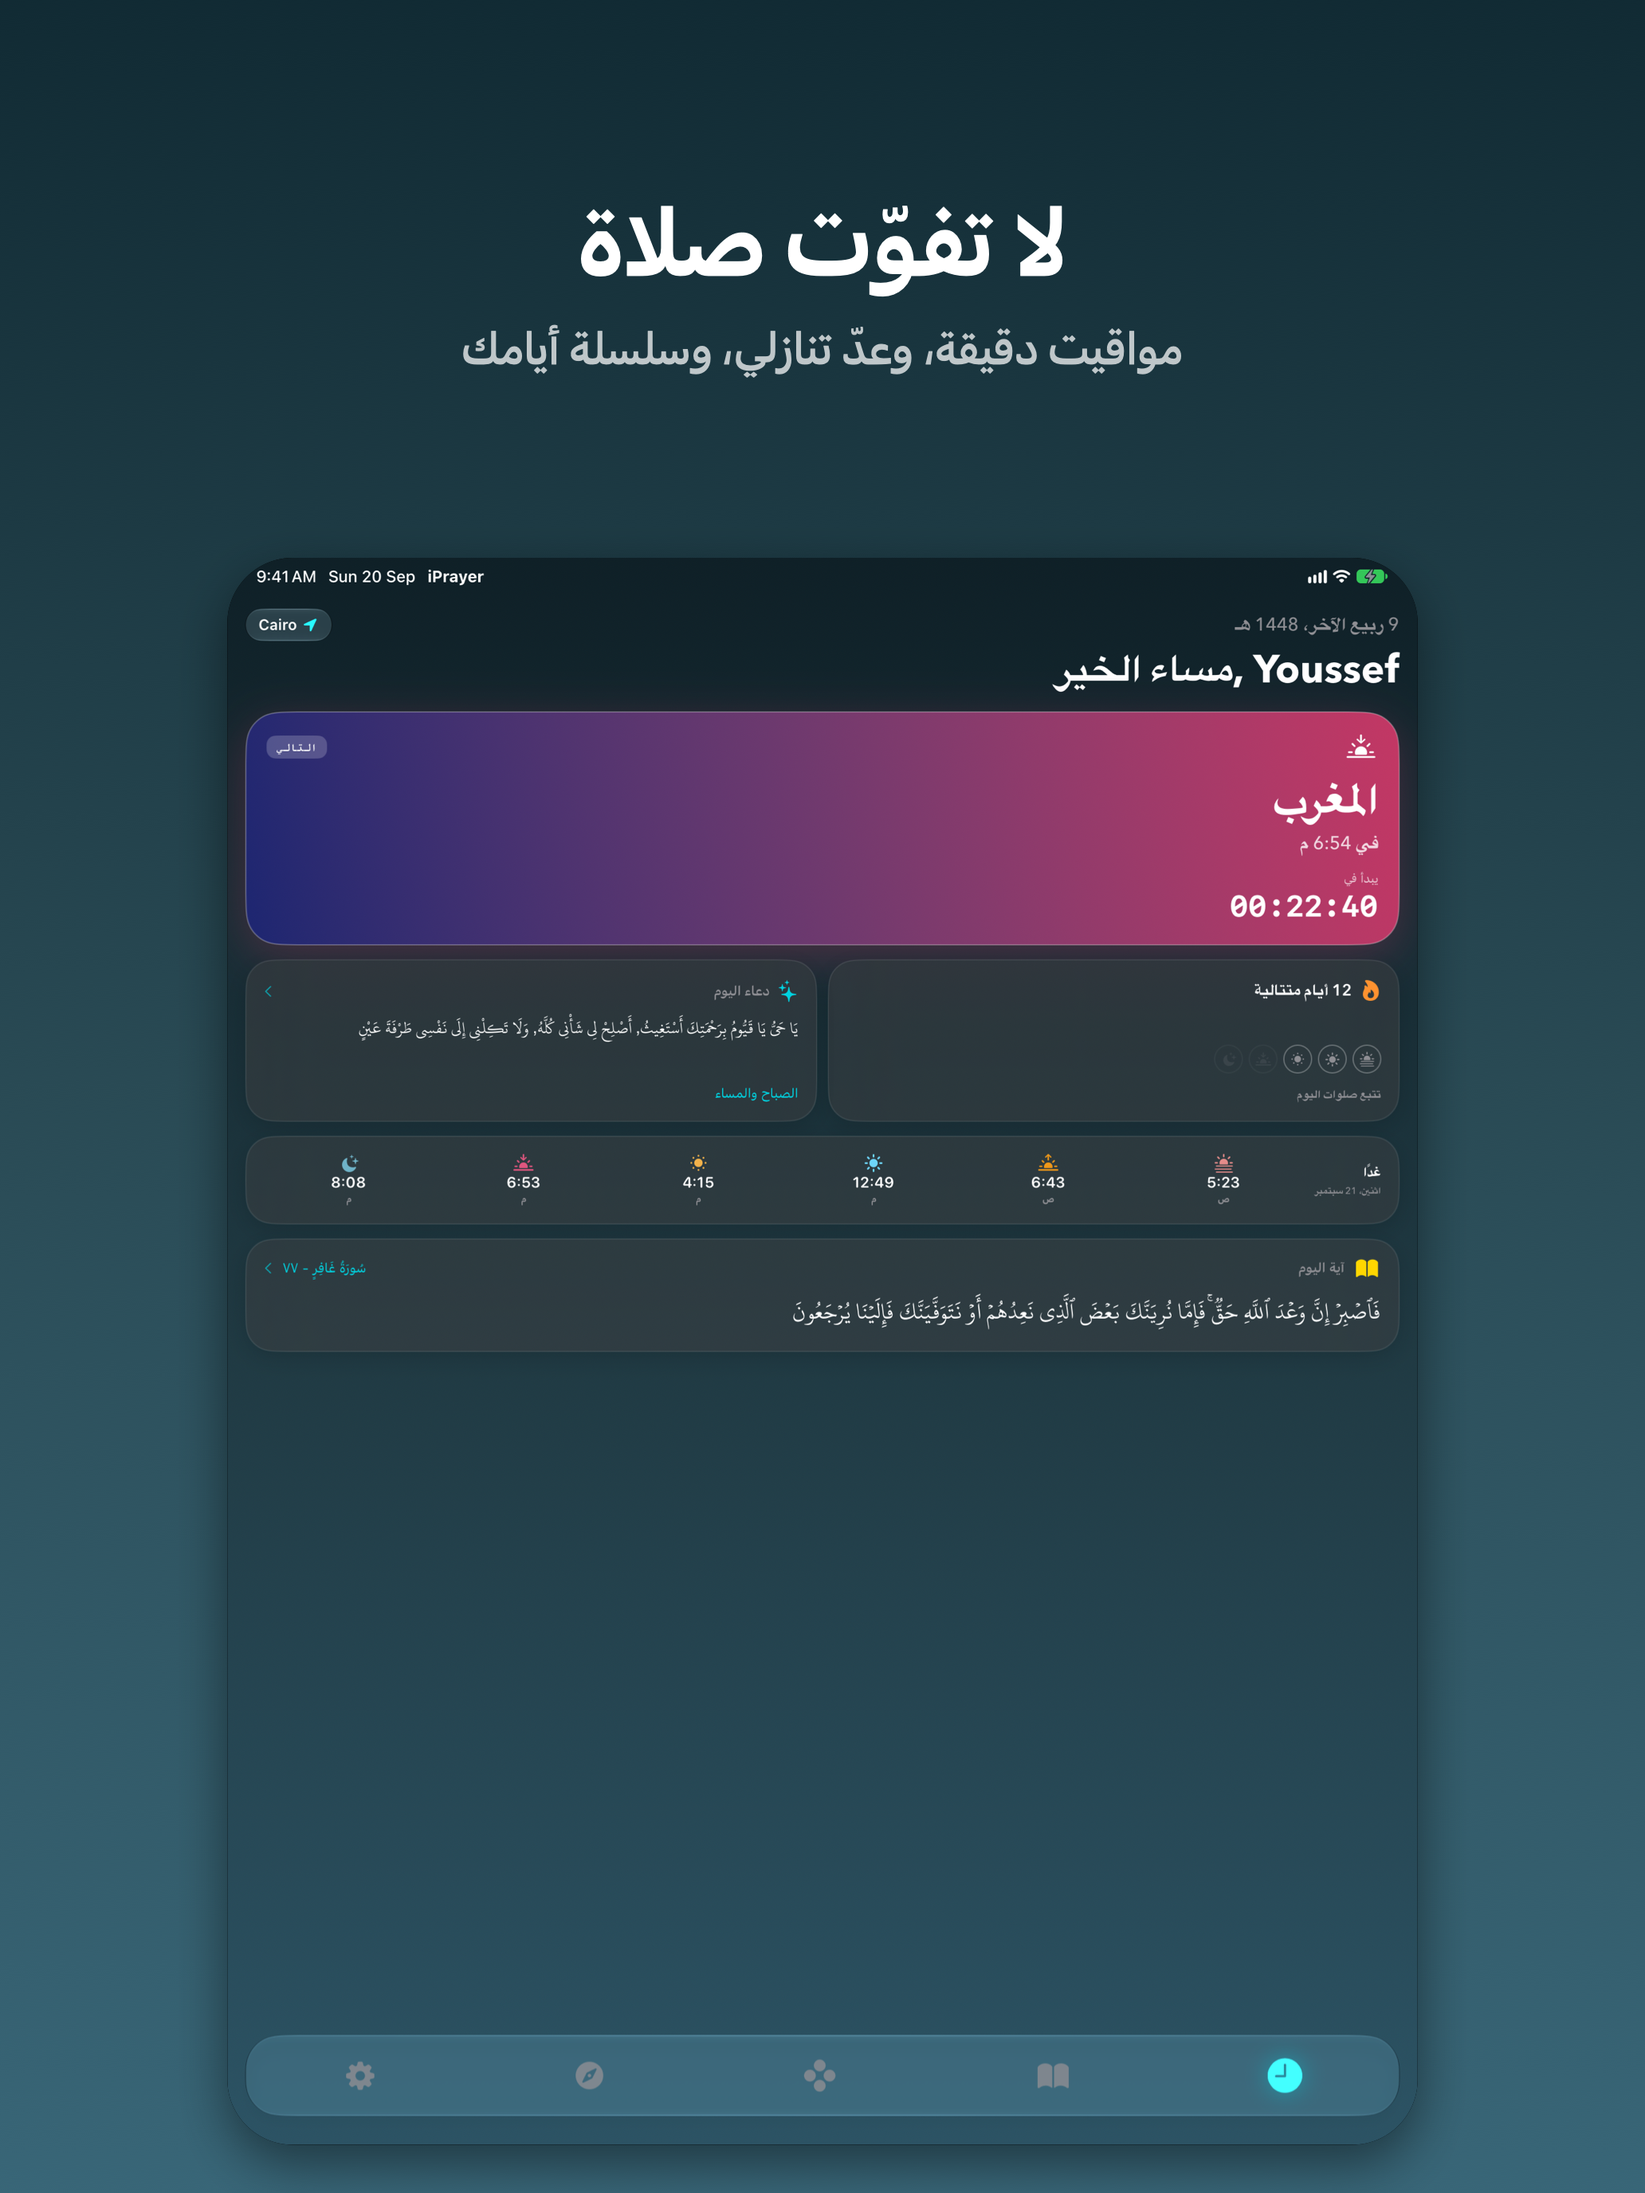
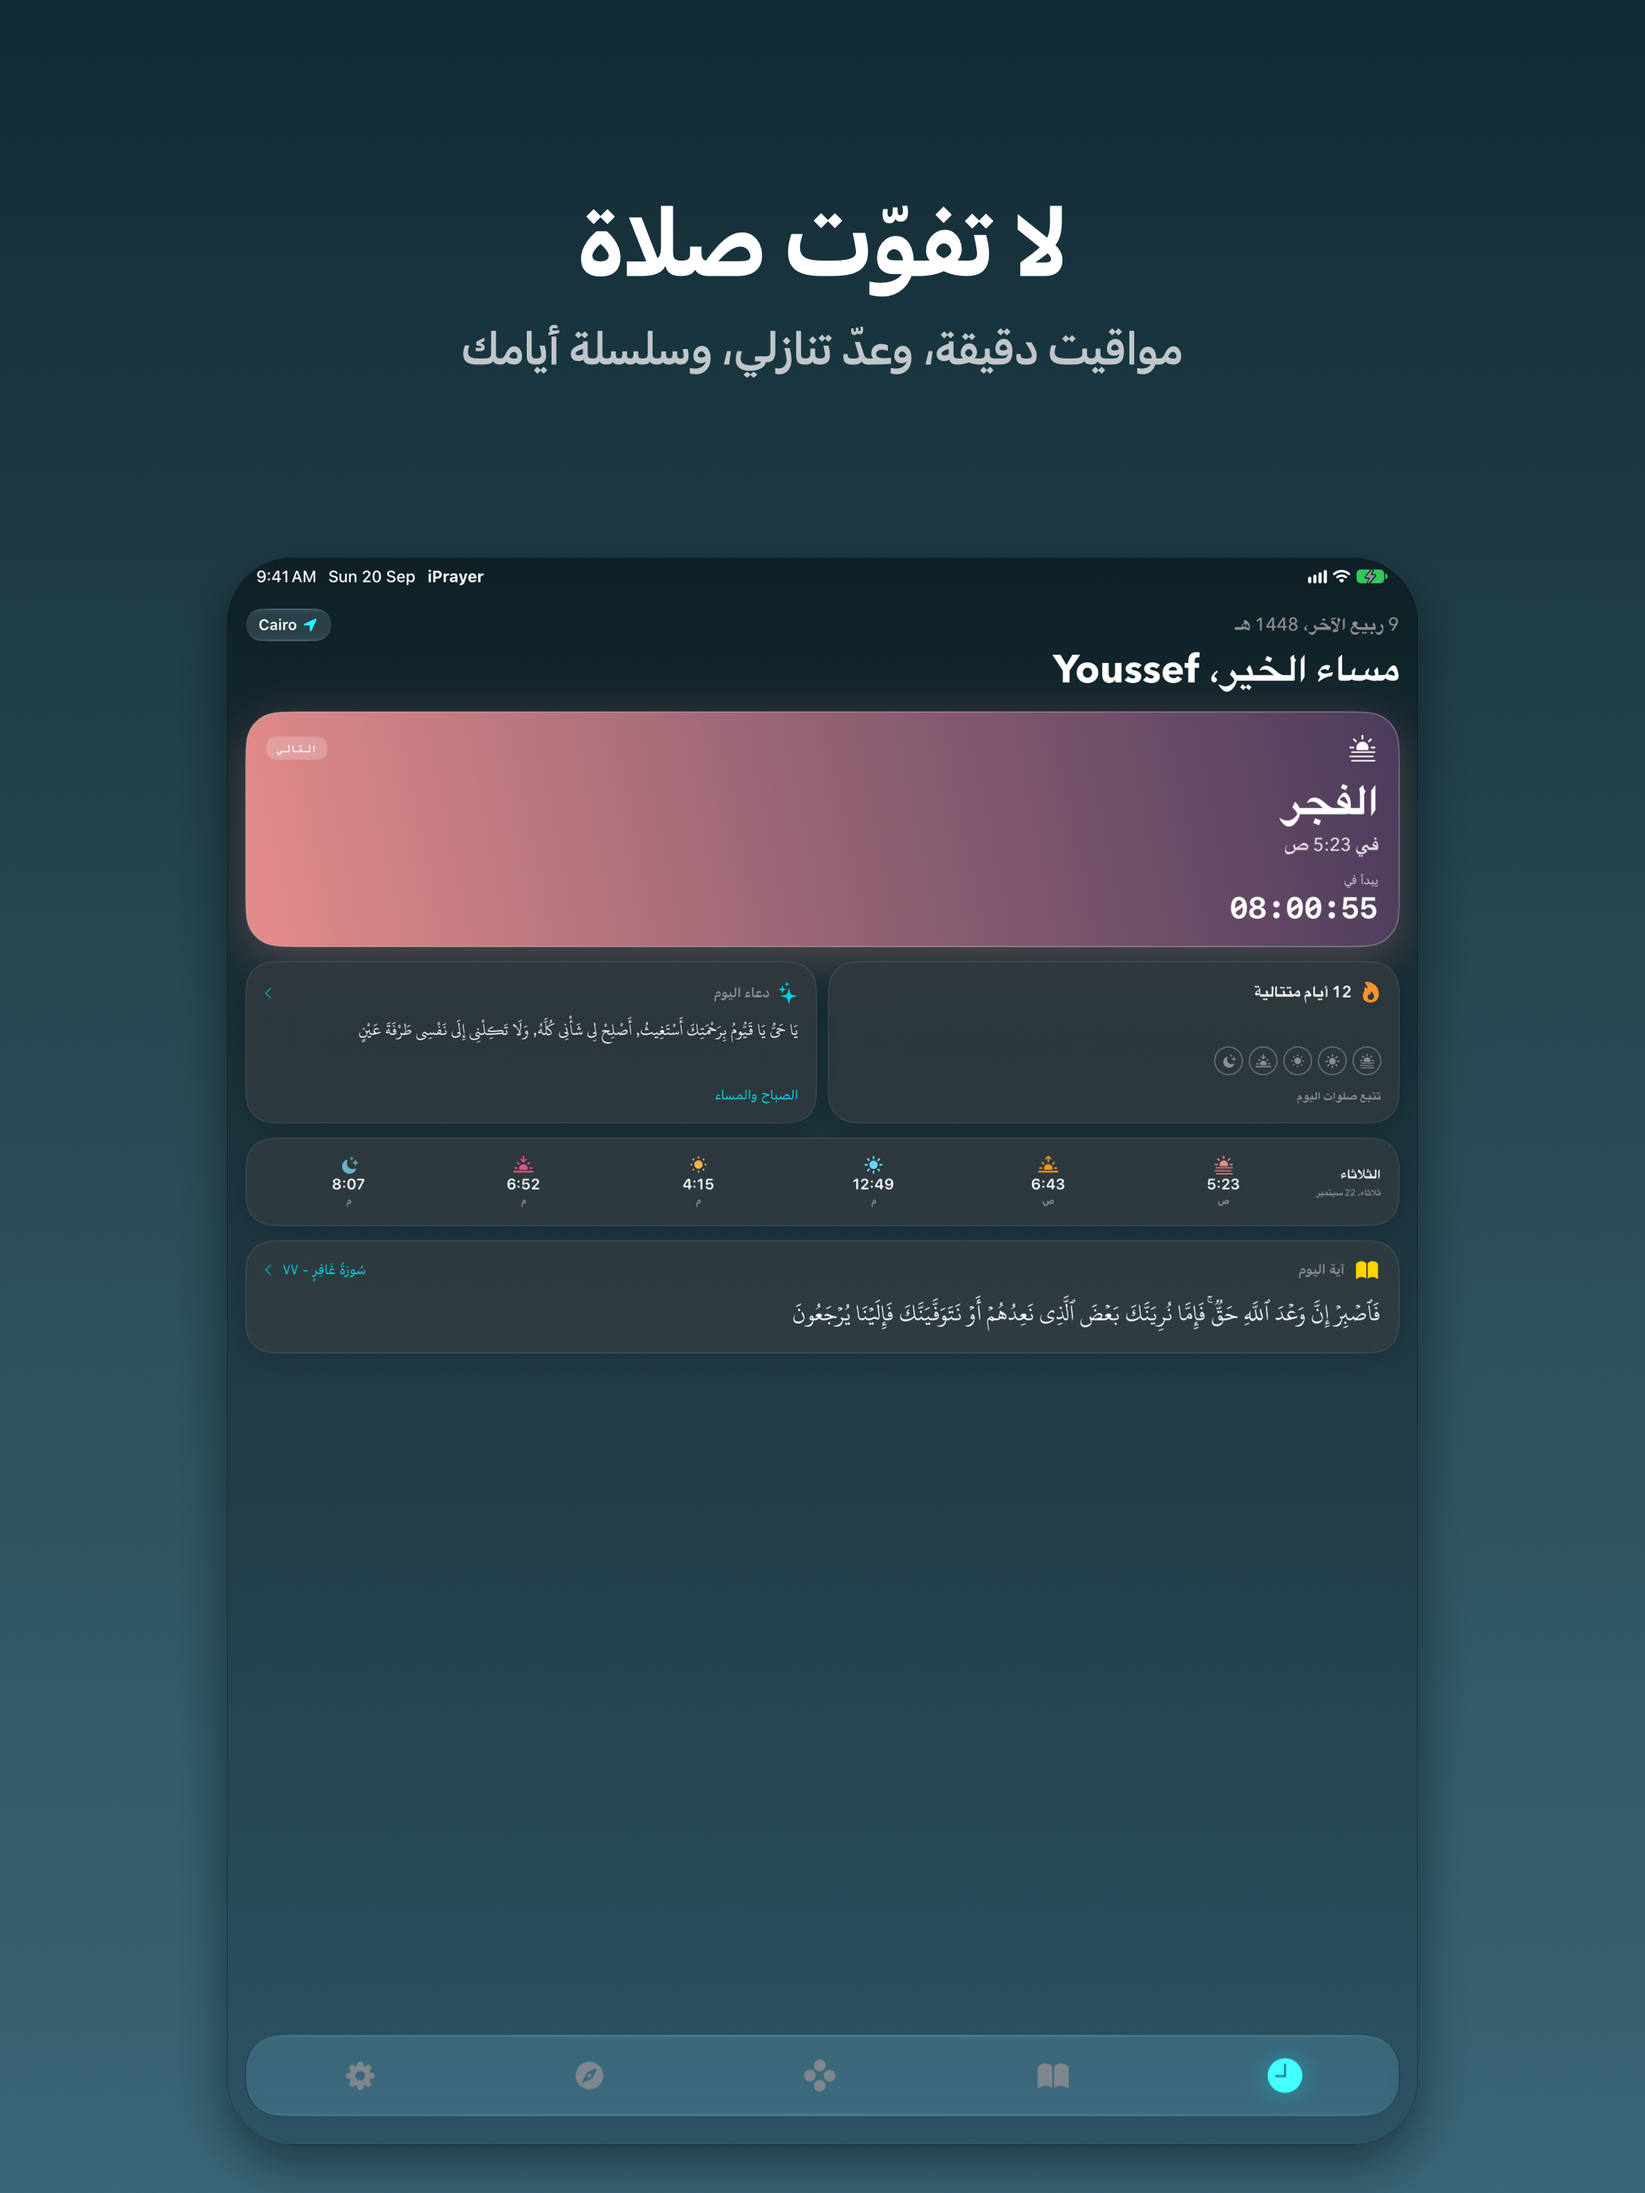
Build 12; handoff: #31 merged, 1.1.0 (12) archived
#31 gave the Home greeting the right comma for its language — Arabic and Urdu
write ، and Chinese ，, where an English format string had been shipping a Latin
comma to all eight — and isolated the name. Build 11's archive no longer matches,
so: bumped to 12, re-archived, build 11's archive deleted.

The two ARABIC Home screenshots are re-taken, plain and captioned. The English
ones are untouched: English keeps its Latin comma, so nothing about them changed.

Leakage re-checked against THIS archive, not inherited from the last one. All
four debug keys return 0 in the shipped iPrayer and iPrayerWatch binaries, while
the same search finds "Compass unavailable", "appLanguage" and "quranReaderTheme"
in those same binaries — the control that makes a zero mean something.

diff --git a/HANDOFF.md b/HANDOFF.md
@@ -9,7 +9,7 @@ and what is still open. The README describes the product; this describes the wor
 
 ## 1. Where things stand
 
-- **Version:** 1.1.0, build 11 (App Store has 1.0). Deployment target iOS 26.0 (watchOS 10.0 on the watch
+- **Version:** 1.1.0, build 12 (App Store has 1.0). Deployment target iOS 26.0 (watchOS 10.0 on the watch
   targets), Xcode 27. The Swift 6.2 *toolchain*, but still the Swift 5 *language mode*
   (`SWIFT_VERSION = 5.0` in all eight configurations) — which is why the capture rule below is a warning
   and not yet an error. `SWIFT_DEFAULT_ACTOR_ISOLATION = MainActor` and approachable concurrency are on for
@@ -93,12 +93,16 @@ and what is still open. The README describes the product; this describes the wor
   `dial(size:)` to `.leftToRight` (§3) and added 32 screenshots. #28 replaced the Home tracker's hardcoded
   `F D A M I` with each prayer's icon, and fixed chip rows that opened at the LTR end in Arabic. #29 gave
   the watch the same compass harness the phone has. Build 10, archived.
+- **20 September 2026, the last Arabic pass — MERGED (#31).** The Home greeting was built from an ENGLISH
+  format string, so a Latin comma shipped in all eight languages; Arabic and Urdu want ، (U+060C) and
+  Chinese ，(U+FF0C). The name is now isolated too. The ORDER was never wrong — the owner asked, and the
+  answer is that a right-to-left line ENDS on the left, which is why the name sits there. Build 12.
 - **Archives.** Release archives are built with `xcodebuild archive` (widget + watch app + complication
   embedded, development-signed; Xcode re-signs for distribution on upload). Keep exactly ONE current: each
-  new build's archive supersedes the last, and 4 through 10 were deleted in turn. The only 1.1.0 archive
-  on disk is `~/Library/Developer/Xcode/Archives/2026-09-20/iPrayer 1.1.0 (11).xcarchive`. (A pre-1.1.0
+  new build's archive supersedes the last, and 4 through 11 were deleted in turn. The only 1.1.0 archive
+  on disk is `~/Library/Developer/Xcode/Archives/2026-09-20/iPrayer 1.1.0 (12).xcarchive`. (A pre-1.1.0
   archive from 18 September is also on disk and is not part of this release.)
-  **Next (owner only): Organizer > Distribute App on that 1.1.0 (11) archive, paste `docs/AppStoreRelease.md`
+  **Next (owner only): Organizer > Distribute App on that 1.1.0 (12) archive, paste `docs/AppStoreRelease.md`
   into App Store Connect with `docs/screenshots/`, and submit. The device pass is DONE (§5, 20 September).
   The only other loose end is the EveryAyah rights email, drafted in `docs/AppStoreRelease.md` and not sent.**
 

diff --git a/docs/AppStoreRelease.md b/docs/AppStoreRelease.md
@@ -1,14 +1,14 @@
-# App Store release notes for 1.1.0 (build 11)
+# App Store release notes for 1.1.0 (build 12)
 
 Everything App Store Connect asks for, ready to paste. Written 19 September 2026, updated 20 September 2026
-for build 11.
+for build 12.
 
 ## Submission checklist
 
-1. DONE — everything is merged to `main` and 1.1.0 (11) is already archived at
-   `~/Library/Developer/Xcode/Archives/2026-09-20/iPrayer 1.1.0 (11).xcarchive`. Only redo steps 1 and 2 if
+1. DONE — everything is merged to `main` and 1.1.0 (12) is already archived at
+   `~/Library/Developer/Xcode/Archives/2026-09-20/iPrayer 1.1.0 (12).xcarchive`. Only redo steps 1 and 2 if
    the code changes; otherwise start at step 3.
-2. DONE for build 11 — Product > Archive with the iPrayer scheme (the watch app and both widget extensions archive with it).
+2. DONE for build 12 — Product > Archive with the iPrayer scheme (the watch app and both widget extensions archive with it).
 3. Upload, then in App Store Connect: attach the build, paste the texts below, upload the screenshots from
    `docs/screenshots/`, answer the privacy questions as listed, and submit.
 4. Export compliance is already answered in the Info.plist (`ITSAppUsesNonExemptEncryption` = NO).
